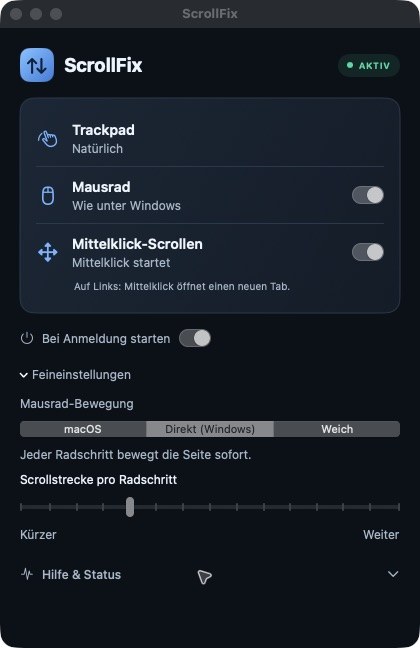
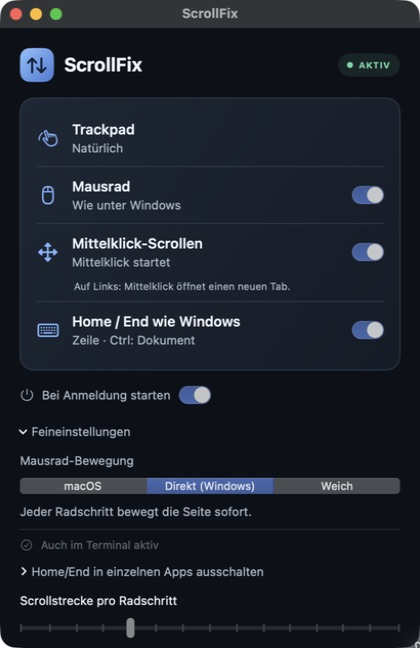
Refresh app screenshot and move test details to contributor guide

diff --git a/README.md b/README.md
@@ -8,7 +8,7 @@ ScrollFix is an open-source Mac menu bar app for people who prefer Windows mouse
 
 ![ScrollFix on macOS: natural trackpad, Windows-style mouse wheel, middle-click scrolling and Direct Windows mode](docs/screenshots/scrollfix-current.png)
 
-*Mouse controls. Version 0.3.2 also includes Home/End navigation. UI labels are currently German.*
+*ScrollFix 0.3.2: mouse scrolling, middle-click and Home/End. UI labels are currently German.*
 
 ## What ScrollFix does
 
@@ -91,7 +91,7 @@ Device classification is heuristic: Quartz scroll phases and line-wheel events d
 
 ## Development and verification
 
-ScrollFix uses Swift and SwiftUI with no external package dependencies. The current offline suite passed **259 tests on 3 October 2026**. Tests cover numeric bounds, event routing, source handoff, permission policy and lifecycle; they do not establish hardware compatibility for every device.
+ScrollFix uses Swift and SwiftUI with no external package dependencies. Automated checks help prevent regressions; real mouse, trackpad and keyboard tests are also needed. Users do not need to install or run the test suite. [Developer verification details](CONTRIBUTING.md#verification).
 
 [How it works](docs/HOW-IT-WORKS.md) · [Contributing](CONTRIBUTING.md) · [Release requirements](docs/RELEASING.md)
 

diff --git a/CONTRIBUTING.md b/CONTRIBUTING.md
@@ -25,4 +25,10 @@ Keep the event-tap callback small and local. Avoid disk or network work in the s
 
 Use `swift test --disable-sandbox` on a Mac with Swift 6 and XCTest available for offline regression checks. These tests check code paths, not physical hardware behavior. Test real middle-button behavior, rapid device handoffs, reconnect, and sleep/wake on hardware before making a release.
 
+## Verification
+
+The offline regression suite passed 259 tests on 3 October 2026. It covers numeric bounds, input routing, focus ownership, recovery, permission policy, settings migration and Terminal setup using temporary directories. Four isolated zsh PTY checks also passed. These are developer checks, not part of the installed app and not a requirement for users.
+
+Physical acceptance covered mouse/trackpad behavior in the user's setup, middle-click links and autoscroll, MX Keys Shift+Home in TextEdit, and local Terminal.app/zsh input selection. This does not establish compatibility with every device, app, modifier combination or Intel Mac. Confirm affected real-input cases alongside automated checks before claiming a fix.
+
 By contributing, you agree that your contribution is licensed under the repository's [Apache 2.0 license](LICENSE).

diff --git a/docs/README.de.md b/docs/README.de.md
@@ -87,7 +87,7 @@ Ja. Scrollphasen liefern keine eindeutige Gerätekennung pro Ereignis. Unbekannt
 
 ## Qualität und Entwicklung
 
-Swift und SwiftUI, ohne externe Paketabhängigkeiten. **259 Offline-Tests bestanden am 3. Oktober 2026.** Das bestätigt geprüfte Codepfade, keine universelle Hardwarekompatibilität.
+Swift und SwiftUI, ohne externe Paketabhängigkeiten. Automatische Prüfungen helfen gegen wiederkehrende Fehler; zusätzlich sind echte Tests mit Maus, Trackpad und Tastatur nötig. Als Nutzer musst du keine Tests installieren oder ausführen. [Details für Entwickler](../CONTRIBUTING.md#verification).
 
 [Technik](HOW-IT-WORKS.md) · [Mitwirken](../CONTRIBUTING.md) · [Release-Anforderungen](RELEASING.md)
 
